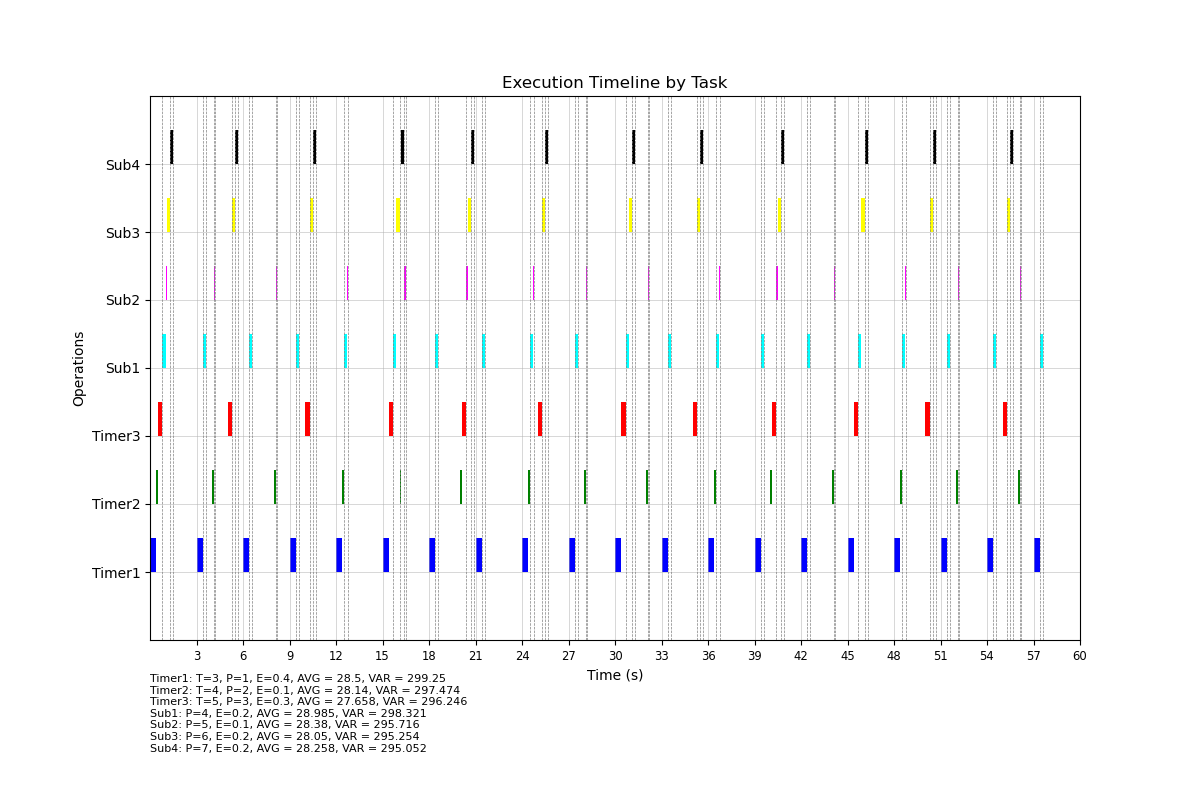
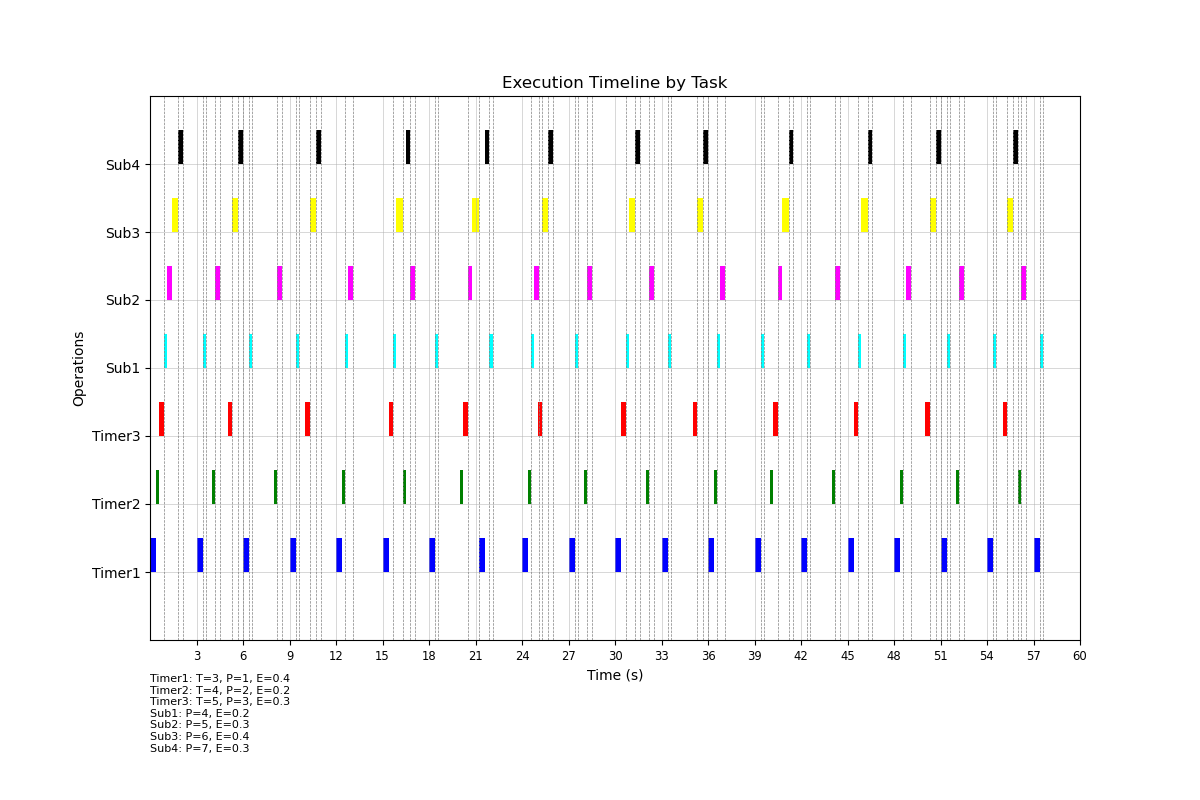
intervals

diff --git a/chain.py b/chain.py
@@ -268,18 +268,6 @@ with open('output.txt', 'r') as file:
 
 # 按优先级排序
 all_objects.sort()
-# for timer in timers:
-#     read_intervals = Statistics.calculate_intervals(timer.read_times)
-#     write_intervals = Statistics.calculate_intervals(timer.write_times)
-#     print(f"Timer {timer.name} Read Intervals: {read_intervals}")
-#     print(f"Timer {timer.name} Write Intervals: {write_intervals}")
-
-# for callback in callbacks:
-#     read_intervals = Statistics.calculate_intervals(callback.read_times)
-#     write_intervals = Statistics.calculate_intervals(callback.write_times)
-#     print(f"Callback {callback.name} Read Intervals: {read_intervals}")
-#     print(f"Callback {callback.name} Write Intervals: {write_intervals}")
-
 # 写入文件
 with open('read_write_times.txt', 'w') as file:
     file.write(f"### info ###\n")
@@ -293,9 +281,6 @@ with open('read_write_times.txt', 'w') as file:
         file.write("read  time: " + " ".join(f"{t:.1f}" for t in obj.read_times) + "\n")
         file.write("write time: " + " ".join(f"{t:.1f}" for t in obj.write_times) + "\n")
 
-        file.write(f"\nread  time: AVG = {Statistics.calculate_average(obj.read_times)}, VAR = {Statistics.calculate_variance(obj.read_times)}\n")
-        file.write(f"write time: AVG = {Statistics.calculate_average(obj.write_times)}, VAR = {Statistics.calculate_variance(obj.write_times)}\n")
-        
         read_intervals = Statistics.calculate_intervals(obj.read_times)
         write_intervals = Statistics.calculate_intervals(obj.write_times)
         file.write("\nRead  Intervals: ")
@@ -303,6 +288,10 @@ with open('read_write_times.txt', 'w') as file:
         
         file.write("Write Intervals: ")
         file.write(" ".join(f"{i:.1f}" for i in write_intervals) + "\n")
+
+        file.write(f"\nread  intervals: AVG = {Statistics.calculate_average(read_intervals)}, VAR = {Statistics.calculate_variance(read_intervals)}\n")
+        file.write(f"write intervals: AVG = {Statistics.calculate_average(write_intervals)}, VAR = {Statistics.calculate_variance(write_intervals)}\n")
+        
 
 
 
@@ -351,9 +340,9 @@ ax.tick_params(axis='x', labelsize='small')  # 设置横轴刻度标签的字体
 # 在图表下方添加注释来显示每个 Timer 和 Callback 的信息
 info_text = ""
 for obj in executor.timers:
-    info_text += f"{obj.name}: T={obj.period}, P={obj.priority}, E={obj.execution_time}, AVG = {Statistics.calculate_average(obj.read_times)}, VAR = {Statistics.calculate_variance(obj.read_times)}\n"
+    info_text += f"{obj.name}: T={obj.period}, P={obj.priority}, E={obj.execution_time}\n"
 for obj in executor.callbacks:
-    info_text += f"{obj.name}: P={obj.priority}, E={obj.execution_time}, AVG = {Statistics.calculate_average(obj.read_times)}, VAR = {Statistics.calculate_variance(obj.read_times)}\n"
+    info_text += f"{obj.name}: P={obj.priority}, E={obj.execution_time}\n"
 ax.text(0, -1.5, info_text, va='top', ha='left', color='black', fontsize=8)
 
 
